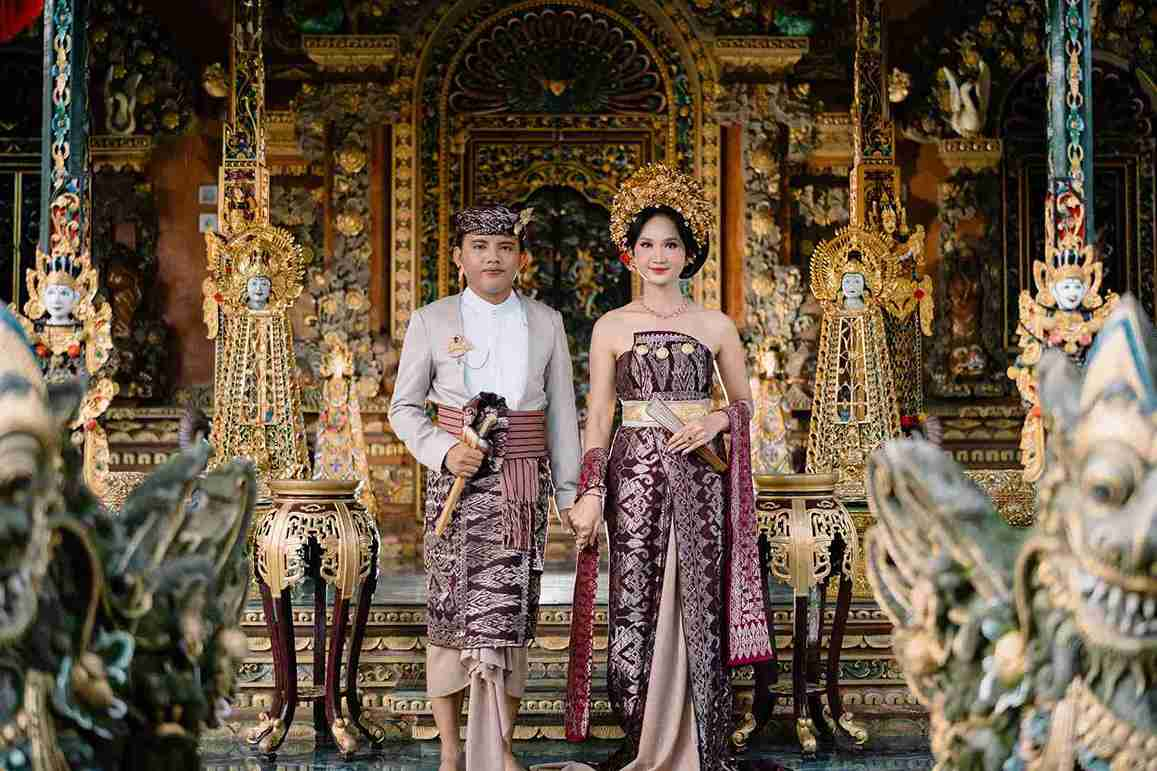
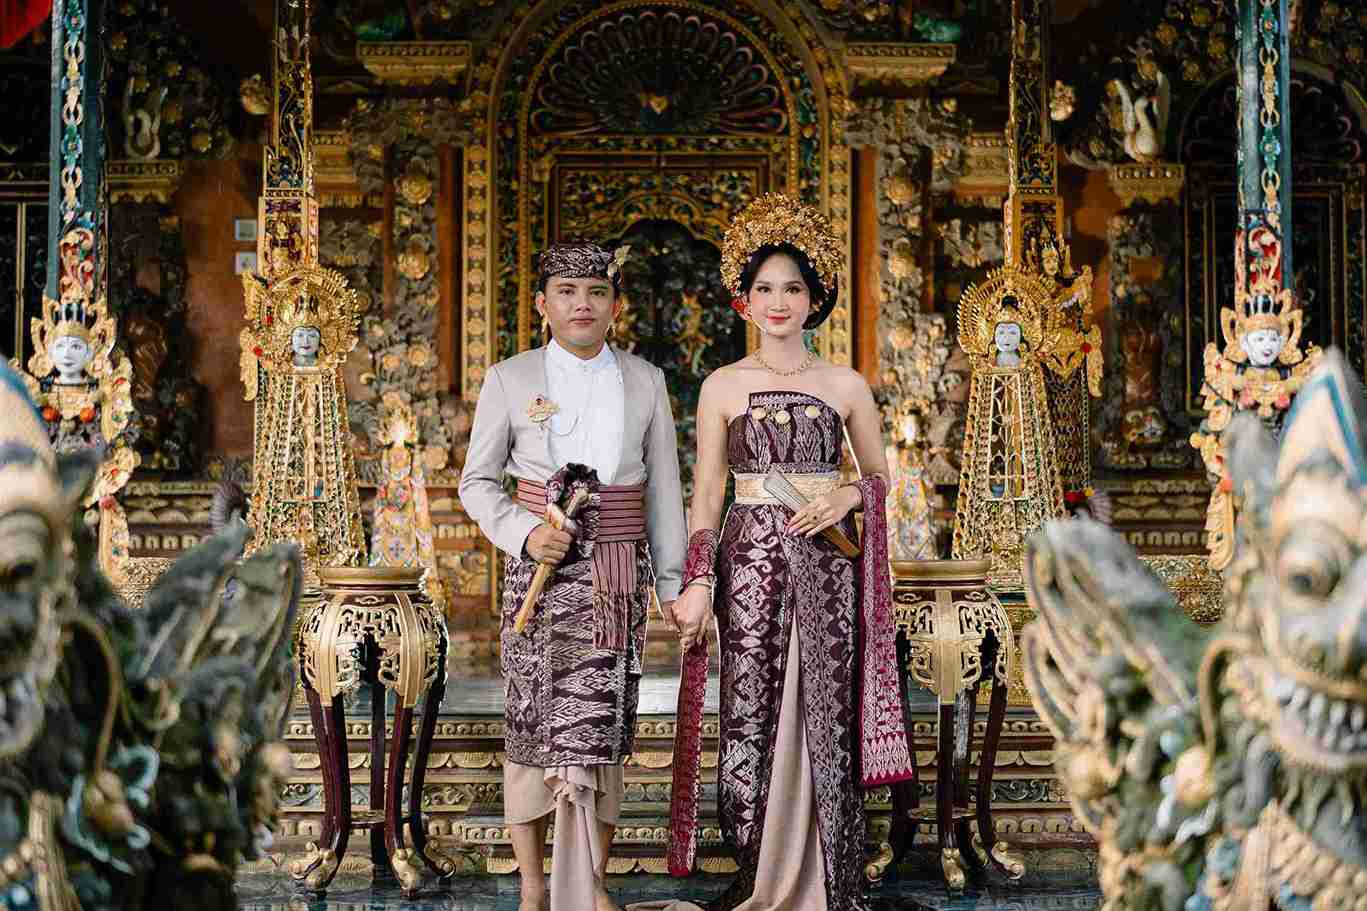
feat : update galeri component

diff --git a/src/components/GalleryComponent.jsx b/src/components/GalleryComponent.jsx
@@ -1,18 +1,18 @@
 import { useState } from "react";
-import imageCover from "../assets/images/wedding-agung-and-riska-galeri-1.jpg";
-import imageCover2 from "../assets/images/wedding-agung-and-riska-galeri-2.jpg";
-import imageCover3 from "../assets/images/wedding-agung-and-riska-galeri-3.jpg";
-import imageCover4 from "../assets/images/wedding-agung-and-riska-galeri-4.jpg";
-import imageCover5 from "../assets/images/wedding-agung-and-riska-galeri-5.jpg";
-import imageCover6 from "../assets/images/wedding-agung-and-riska-galeri-6.jpg";
-import imageCover7 from "../assets/images/wedding-agung-and-riska-galeri-7.jpg";
-import imageCover8 from "../assets/images/wedding-agung-and-riska-galeri-8.jpg";
-import imageCover9 from "../assets/images/wedding-agung-and-riska-galeri-9.jpg";
-import imageCover10 from "../assets/images/wedding-agung-and-riska-galeri-10.jpg";
-import imageCover11 from "../assets/images/wedding-agung-and-riska-galeri-11.jpg";
-import imageCover12 from "../assets/images/wedding-agung-and-riska-galeri-12.jpg";
-import imageCover13 from "../assets/images/wedding-agung-and-riska-galeri-13.jpg";
-import imageCover14 from "../assets/images/wedding-agung-and-riska-galeri-14.jpg";
+import imageCover from "../assets/images/wedding-agung-and-riska-galeri-1.webp";
+import imageCover2 from "../assets/images/wedding-agung-and-riska-galeri-2.webp";
+import imageCover3 from "../assets/images/wedding-agung-and-riska-galeri-3.webp";
+import imageCover4 from "../assets/images/wedding-agung-and-riska-galeri-4.webp";
+import imageCover5 from "../assets/images/wedding-agung-and-riska-galeri-5.webp";
+import imageCover6 from "../assets/images/wedding-agung-and-riska-galeri-6.webp";
+import imageCover7 from "../assets/images/wedding-agung-and-riska-galeri-7.webp";
+import imageCover8 from "../assets/images/wedding-agung-and-riska-galeri-8.webp";
+import imageCover9 from "../assets/images/wedding-agung-and-riska-galeri-9.webp";
+import imageCover10 from "../assets/images/wedding-agung-and-riska-galeri-10.webp";
+import imageCover11 from "../assets/images/wedding-agung-and-riska-galeri-11.webp";
+import imageCover12 from "../assets/images/wedding-agung-and-riska-galeri-12.webp";
+import imageCover13 from "../assets/images/wedding-agung-and-riska-galeri-13.webp";
+import imageCover14 from "../assets/images/wedding-agung-and-riska-galeri-14.webp";
 import { motion, AnimatePresence } from "motion/react";
 
 const Gallery = () => {
